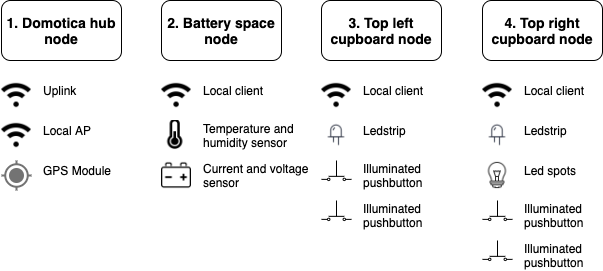
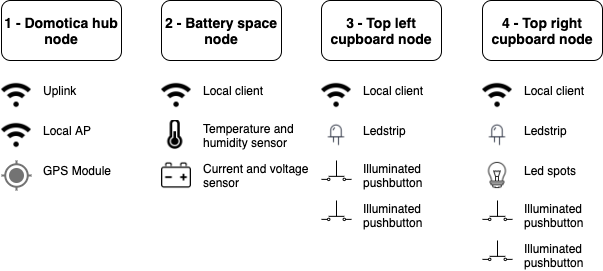
gif added

diff --git a/README.md b/README.md
@@ -1,34 +1,29 @@
 # Digital Herbert - Buscamper automation project
-In 2019 we bought a van to convert into a buscamper and called him Herbert de Campert 🚐, you can follow the physical build process on [Instagram](https://www.instagram.com/herbertdecampert/). This project describes the work in progress on the automation of our camper. It will be based on Home Assistant and ESPHome.
+In 2019 we bought a van to convert into a buscamper and called it Herbert de Campert 🚐, you can follow the physical build process on [@herbertdecampert](https://www.instagram.com/herbertdecampert/). This page describes the work in progress on the automation of our camper. It is be based on a Raspberry Pi with Home Assistant and several ESP8266 modules with ESPHome.
+
+![Functional overview](digitalherbert.gif "Schematic overview")
 
 ## Overview
 ![Schematic overview](Digital_Herbert.png "Schematic overview")
 
+The project is build around a Raspberry Pi 3B (core hub), three NodeMCU v3 modules (wireless io) and various sensors and actuators. The NodeMCU modules are equiped with internal voltage regulators so they can be powered directly by the car battery. Power-thirsty hardware modules are powered by efficient 5V 5A DC-DC Buck converters.
 
+The van automation logic is built using [Home Assistant](https://www.home-assistant.io/) and [ESPHome](https://esphome.io/). The *domotica hub* is serving a local WiFi access point (hostapd) to which the other modules connnect. It also connects to available and known wireless access points (home wifi, mobile hotspot etcetera) for uplink.
 
-## Hardware
-- Raspberry Pi 3B
-- NodeMCU v3
-- 100A Shunt
-- INA3221
-- DHT22
-- WS2812 LED strip
-- LED Ceiling lights
-- 5V 5A DC-DC Buck converter
+### 1 - Domotica hub node
+This module is the core of Digital Herbert. The hardware is a Rasberry Pi 3B equiped with an additional USB Wifi Module (TP-Link TL-WN722N v2) and a USB GPS Module (U-Blox AG, u-blox 7).
 
-## Modules
-### Accu monitor
-The accu monitor module is build around an NodeMCU V3 and is measuring temperature in the "battery-room" and the actual voltage and current flowing in or out of the battery. Temperature is measured using an DHT22 module (with pull-up resistor). Energy is measured using an [INA3221 I2C Shunt monitor module](https://nl.aliexpress.com/item/32828796768.html) with an external [100A Shunt](https://nl.aliexpress.com/item/32879352313.html). After receiving the INA3221 module I found out it was build with internal shunts and I had to modify the module to be able to use it for my purpose. I removed the internal shunt and connected the supply side external shunt to the POW/VIN1+ pin and the load side to the VIN1-/P1.1 pin. The NodeMCU is directly powered by the 12V car-battery and the sensors are powered by the regulated 3.3v from the NodeMCU board.
+The recommended deployment of Home Assistant relies on the Home Assistant Operating System (HassOS), a light-weight docker host OS. Because the Raspberry does not have a real time clock (RTC) HassOS requires an network time protocol (NTP) server to sync the system clock to, otherwise it will not boot. There's no permanent internet connection available in the campervan so an USB GPS Module is used as time source. Also the hub needs to serve a local WiFi access point with a wireless uplink connection. These unordinary requirements were not feasable on HassOS so [Raspberry Pi OS](https://www.raspberrypi.org/downloads/raspberry-pi-os/) (previously called Raspbian) is used instead.
 
-**Pinouts**
+### 3 - Battery space node
+The battery space node is build around an NodeMCUv3 and is measuring temperature, humidity and the actual voltage and current flowing in or out of the battery. Temperature is measured using an DHT22 module (with pull-up resistor). Energy is measured using an [INA3221 I2C Shunt monitor module](https://nl.aliexpress.com/item/32828796768.html) with an external [100A Shunt](https://nl.aliexpress.com/item/32879352313.html). The INA3221 module is build with internal shunts and needs to be modified to be able to use it with an external shunt. The internal shunt has to be removed and the supply side of the external shunt has to be connected to the POW/VIN1+ pin. The load side of the shunt has to be connected to the VIN1-/P1.1 pin. The NodeMCU is directly powered by the 12V car-battery and the sensors are powered by the regulated 3.3v from the NodeMCU board.
+
+**Pinout**
 - INA3221 (SDA GPIO4/D2, SCL GPIO5/D1)
 - DHT22 (D7)
 
+### 3 - Top left cupboard node
+This node is also a NodeMCU v3 driving a WS2812B LED-strip (175 LEDs) and has two illuminated push butons.
 
-## Software
-- [Home Assistant](https://www.home-assistant.io/)
-  - [Custom WiFi access point addon](https://github.com/joosthb/hassio-addons)
-- [ESPHome](https://esphome.io/)
-
-## Bill of materials
-- ["Chinese diesel heater"](https://nl.aliexpress.com/item/32836642933.html)
+### 4 - Top right cupboard node
+Same but 102 LEDs and a relay to switch the LED-spots on the ceiling.
